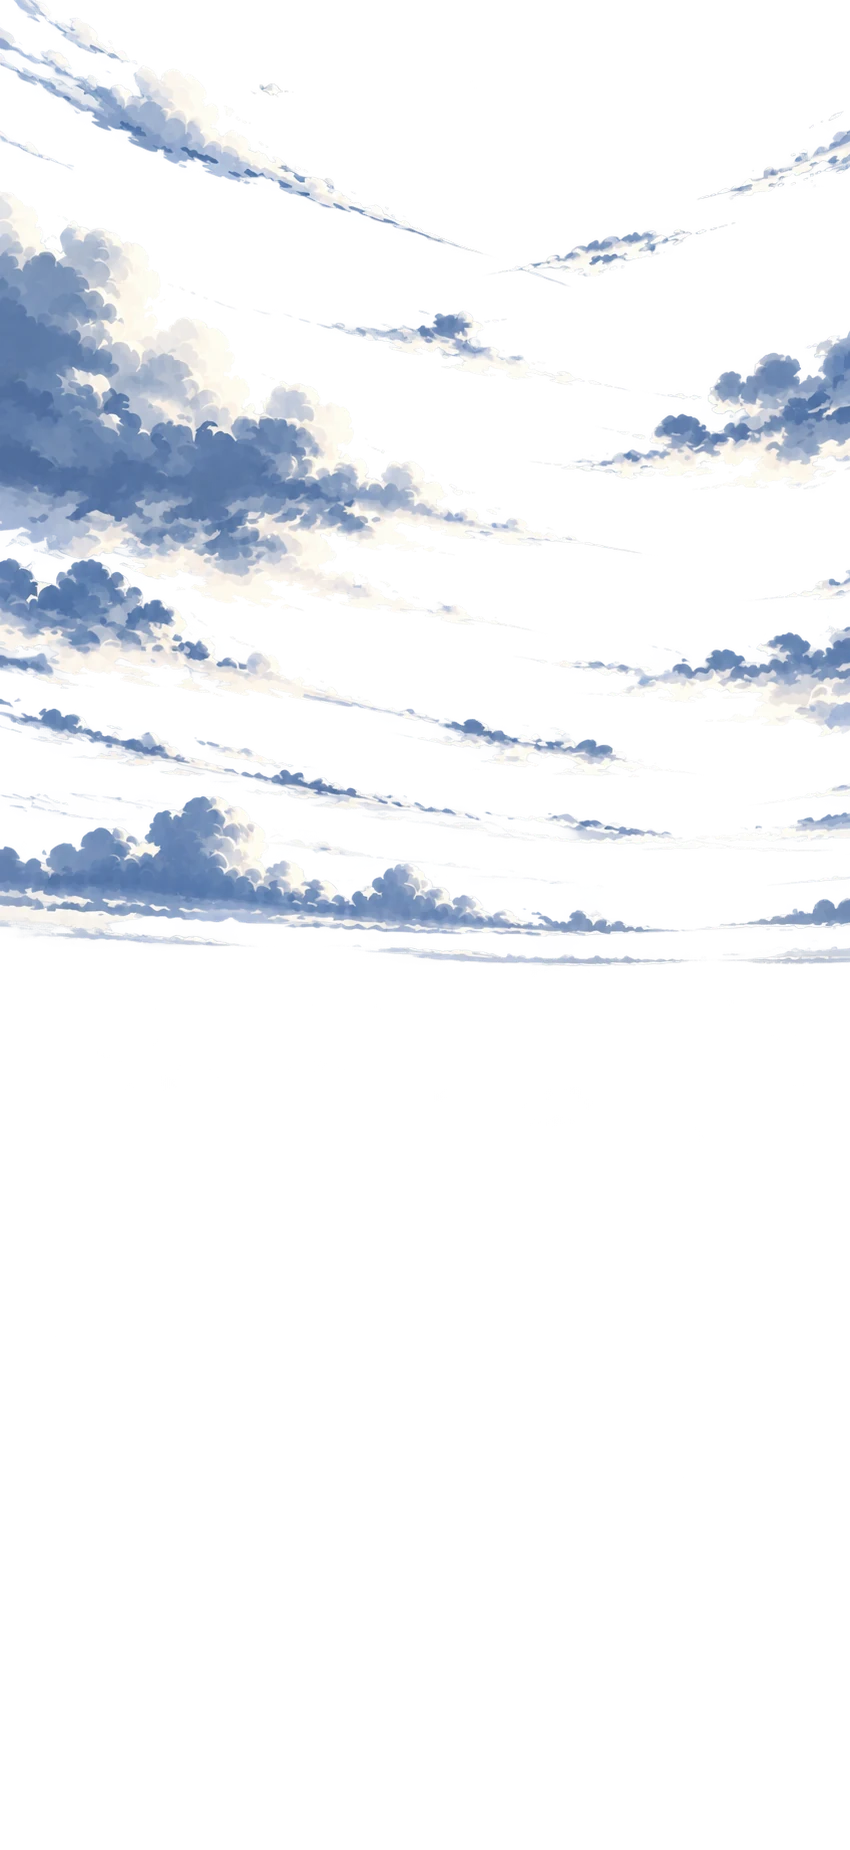
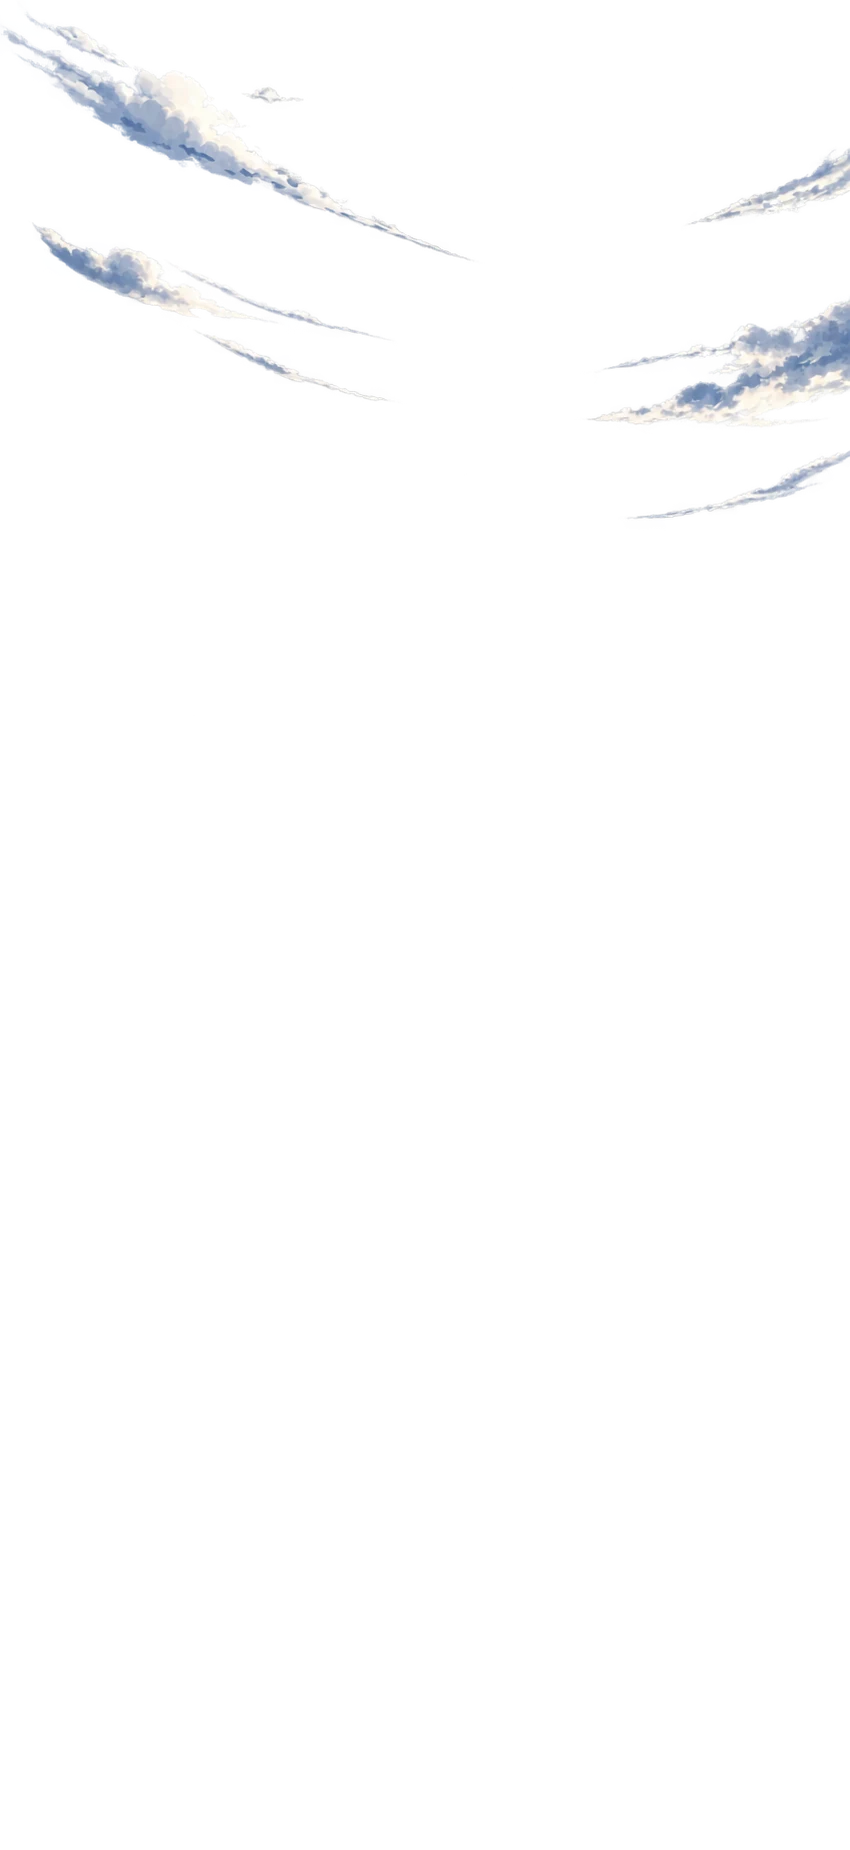
Refine rippling water, silver moonlight, clear glass and sparse drifting clouds

diff --git a/lib/landscape-renderer.ts b/lib/landscape-renderer.ts
@@ -3,6 +3,12 @@ import horizon from './landscape-horizon.json';
 const TAU=Math.PI*2,WIDTH=1000,HEIGHT=1000*1850/850;
 const blend=(a:number[],b:number[],t:number)=>a.map((v,i)=>v+(b[i]-v)*t);
 const css=(c:number[])=>`rgb(${c.map(Math.round).join(',')})`;
+export const cloudOffset=(seconds:number)=>((seconds*1.15)%WIDTH+WIDTH)%WIDTH;
+/** Two gentle crossing wave trains; dimensions increase towards the viewer. */
+export function waterWave(x:number,y:number,seconds:number){
+  const depth=smoothstep(.59,.94,y/HEIGHT);
+  return Math.sin(x*.025+y*.052-seconds*.75)*(1.1+depth*2.8)+Math.sin(x*.049-y*.019+seconds*.48)*(.6+depth*1.4);
+}
 export function mountainHorizon(x:number){
   const index=Math.max(0,Math.min(255,x*255)),i=Math.floor(index);
   return horizon[i]+((horizon[Math.min(255,i+1)]??horizon[i])-horizon[i])*(index-i);
@@ -23,6 +29,7 @@ export class LandscapeRenderer{
   private lastLight='';
   private width=1;private height=1;private scale=1;private offsetX=0;private offsetY=0;
   private assets:LandscapeAssets|null=null;
+  private ambientSeconds=0;
   private stars=Array.from({length:180},(_,i)=>{const r=(n:number)=>((Math.sin(n*127.1)*43758.5453)%1+1)%1;return{x:r(i+1),y:r(i+72)*.46,size:.4+r(i+17),brightness:r(i+45)};});
   constructor(private canvas:HTMLCanvasElement){
     this.ctx=canvas.getContext('2d',{alpha:false})!;
@@ -49,12 +56,24 @@ export class LandscapeRenderer{
         g.addColorStop(0,`rgba(255,159,81,${warm*(isCloud?.75:.25)})`);g.addColorStop(1,`rgba(170,78,93,${warm*.12})`);c.fillStyle=g;c.fillRect(0,0,WIDTH,HEIGHT);
       }
       c.globalCompositeOperation='source-over';
+      if(isCloud){
+        // The atlas is not painted as a seamless tile. Feather both ends before
+        // repeating it, so passing cloud groups never expose a vertical cut.
+        const edge=c.createLinearGradient(0,0,WIDTH,0);
+        edge.addColorStop(0,'transparent');edge.addColorStop(.09,'#000');edge.addColorStop(.91,'#000');edge.addColorStop(1,'transparent');
+        c.globalCompositeOperation='destination-in';c.fillStyle=edge;c.fillRect(0,0,WIDTH,HEIGHT);c.globalCompositeOperation='source-over';
+      }
     }
   }
   private cloudTransmission(x:number,y:number,shift:number){
     const alpha=this.assets?.cloudAlpha;if(!alpha)return 1;
-    const px=Math.floor((x-shift/WIDTH)*850),py=Math.floor(y*1850);
-    return px>=0&&px<850&&py>=0&&py<1850?1-alpha[py*850+px]/255:1;
+    const px=Math.floor((((x-shift/WIDTH)%1+1)%1)*850),py=Math.floor(y*1850);
+    if(py<0||py>=1850)return 1;
+    // Average a small patch so fine cloud edges do not abruptly switch a reflection.
+    let opacity=0;
+    for(const dx of [-4,0,4])for(const dy of [-4,0,4])opacity+=alpha[Math.max(0,Math.min(1849,py+dy))*850+(px+dx+850)%850];
+    const edge=smoothstep(0,.09,px/850)*(1-smoothstep(.91,1,px/850));
+    return 1-opacity/(9*255)*edge;
   }
   private moon(c:CanvasRenderingContext2D,state:AstronomyState,x:number,y:number,radius:number){
     const f=state.illumination.fraction,opacity=c.globalAlpha;
@@ -70,6 +89,8 @@ export class LandscapeRenderer{
     c.restore();
   }
   render(state:AstronomyState,seconds:number,motion:boolean){
+    if(motion)this.ambientSeconds=seconds;
+    seconds=this.ambientSeconds;
     const c=this.ctx,sky=skyState(state),sun=projectCelestial(state.sun),moon=projectCelestial(state.moon);
     const lightKey=[sky.day.toFixed(3),sky.twilight.toFixed(3),sky.moonlight.toFixed(2),sun.x.toFixed(2)].join(':');
     if(lightKey!==this.lastLight){this.relight(sky.day,sky.twilight,sky.moonlight,sun.x);this.lastLight=lightKey;}
@@ -94,8 +115,10 @@ export class LandscapeRenderer{
       c.save();c.globalAlpha=.25+.75*(1-sky.day);this.moon(c,state,mx,my,22);c.restore();
     }
     c.setTransform(1,0,0,1,0,0);
-    const cloudShift=motion?Math.sin(seconds*.006)*10:0;
-    c.drawImage(this.clouds,cloudShift*this.scale,0);c.drawImage(this.terrain,0,0);
+    const cloudShift=cloudOffset(seconds);
+    // Seamless, steady drift rather than oscillating the whole sky in place.
+    c.drawImage(this.clouds,cloudShift*this.scale,0);
+    c.drawImage(this.clouds,(cloudShift-WIDTH)*this.scale,0);c.drawImage(this.terrain,0,0);
     if(!this.assets)return;
     // Only the lower part of this persistent buffer is drawn. Alpha mask includes
     // the exact riverbanks and intervening trees; light can never land on the forest.
@@ -104,26 +127,51 @@ export class LandscapeRenderer{
     water.addColorStop(0,css(blend(blend([13,35,69],[113,179,199],sky.day),[201,133,143],sky.twilight*.55)));
     water.addColorStop(1,css(blend(blend([9,28,58],[48,123,155],sky.day),[177,124,135],sky.twilight*.4)));
     w.fillStyle=water;w.fillRect(0,HEIGHT*.57,WIDTH,HEIGHT);
-    w.save();w.translate(motion?Math.sin(seconds*.3)*1.5:0,HEIGHT*1.30);w.scale(1,-1);w.globalAlpha=.24;w.drawImage(this.terrain,0,0,this.width,this.height,0,0,WIDTH,HEIGHT);w.restore();
-    for(let i=0;i<44;i++){
-      const y=HEIGHT*(.6+i*.009),p=i/44;
-      const shift=motion?Math.sin(seconds*.45+i*1.7)*(2+p*7):0;
-      w.strokeStyle=sky.day>.5?'#c8edf1':'#7799be';w.globalAlpha=.04+p*.045;w.lineWidth=.6+p*1.5;w.beginPath();w.moveTo(-100+shift,y);w.lineTo(1100+shift,y+.5);w.stroke();
+    // Ripple the reflected terrain in narrow strips, reusing the existing texture.
+    w.globalAlpha=.28;
+    for(let i=0;i<54;i++){
+      const y=HEIGHT*(.59+i*.0078),band=HEIGHT*.0078;
+      const sourceY=HEIGHT*1.30-y-band;
+      if(sourceY<0)continue;
+      w.save();w.translate(waterWave(480,y,seconds),y+band);w.scale(1,-1);
+      const sy=(sourceY*this.scale+this.offsetY)/this.height*this.terrain.height;
+      w.drawImage(this.terrain,0,Math.max(0,sy),this.width,Math.max(1,band*this.scale),0,0,WIDTH,band);w.restore();
     }
-    const reflect=(p:{x:number;y:number},radius:number,altitude:number,brightness:number,fill:string)=>{
+    // Broken, gently curved crests visibly move within the water mask.
+    for(let i=0;i<64;i++){
+      const y=HEIGHT*(.6+i*.006),p=i/64;
+      w.strokeStyle=sky.day>.5?'#daf3f1':'#9ebcda';w.globalAlpha=.055+p*.065;w.lineWidth=.65+p*1.1;
+      for(let j=0;j<5;j++){
+        const x=((j*237+i*71)%1130)-65,span=17+p*38;
+        w.beginPath();w.moveTo(x,y+waterWave(x,y,seconds));
+        w.quadraticCurveTo(x+span*.5,y+waterWave(x+span*.5,y,seconds),x+span,y+waterWave(x+span,y,seconds));w.stroke();
+      }
+    }
+    const reflect=(p:{x:number;y:number},radius:number,altitude:number,brightness:number,fill:string,lunar=false)=>{
       const visibility=discVisibility(p.x,p.y,radius/HEIGHT,altitude)*this.cloudTransmission(p.x,p.y,cloudShift);
       if(visibility===0||brightness<.001)return;
       w.strokeStyle=fill;w.lineCap='round';
-      for(let i=0;i<50;i++){
-        const y=HEIGHT*(.6+i*.008),perspective=(y/HEIGHT-.59)/.41;
-        const shift=motion?Math.sin(seconds*.6+i*1.9)*(.8+perspective*5):0;
+      for(let i=0;i<64;i++){
+        const y=HEIGHT*(.6+i*.006),perspective=(y/HEIGHT-.59)/.41;
+        const shift=waterWave(500,y,seconds)*2;
         const x=500+(p.x-.5)*(150+perspective*1250)+shift;
-        const half=5+perspective*(18+50*(1-smoothstep(0,.65,altitude)));
-        w.globalAlpha=brightness*visibility*(.16+.28*(1-perspective))*(.7+.3*Math.sin(i*2.4+(motion?seconds*.5:0)));
-        w.lineWidth=1+perspective*3;w.beginPath();w.moveTo(x-half,y);w.lineTo(x+half,y);w.stroke();
+        const half=(lunar?60:16)+perspective*((lunar?210:65)+50*(1-smoothstep(0,.65,altitude)));
+        // A broad, soft rough-water lobe and brighter broken silver glints.
+        const lobe=w.createLinearGradient(x-half*2,0,x+half*2,0);
+        lobe.addColorStop(0,'transparent');lobe.addColorStop(.5,fill);lobe.addColorStop(1,'transparent');
+        w.strokeStyle=lobe;w.globalAlpha=brightness*visibility*(lunar?.16:.09)*(1-perspective*.45);
+        w.lineWidth=5+perspective*10;w.beginPath();w.moveTo(x-half*2,y);w.lineTo(x+half*2,y);w.stroke();
+        w.strokeStyle=fill;
+        const shimmer=.55+.45*Math.sin(i*2.4+seconds*.65);
+        w.globalAlpha=brightness*visibility*(lunar?.58:.33)*(.45+.55*(1-perspective))*shimmer;
+        w.lineWidth=1+perspective*2.4;
+        for(let j=0;j<3;j++){
+          const dx=(j-1)*half*.7+Math.sin(i*1.7+j)*half*.3,length=half*(.12+.13*(1+Math.sin(i+j)));
+          w.beginPath();w.moveTo(x+dx-length,y);w.lineTo(x+dx+length,y+.5);w.stroke();
+        }
       }
     };
-    reflect(sun,25,state.sun.altitude,sky.day,'#ffe4ab');reflect(moon,22,state.moon.altitude,state.illumination.fraction*(1-sky.day),'#d3e7ff');
+    reflect(sun,25,state.sun.altitude,sky.day,'#ffe4ab');reflect(moon,22,state.moon.altitude,state.illumination.fraction*(1-sky.day),'#e4f2ff',true);
     w.globalAlpha=1;w.globalCompositeOperation='destination-in';w.drawImage(this.assets.water,0,0,WIDTH,HEIGHT);w.globalCompositeOperation='source-over';
     c.setTransform(1,0,0,1,0,0);c.drawImage(this.water,0,0);
     // Feathered valley mist, driven by the same light; no per-frame blur filters.

diff --git a/app/globals.css b/app/globals.css
@@ -1130,11 +1130,17 @@ html[data-personal-light-effects='on'] .animate-spin{animation:spin 1s linear in
 html[data-personal-light-effects='on'] .admin-device-card{overflow:clip;clip-path:inset(0 round 2rem)}
 html[data-personal-light-effects='on'][data-personal-card-radius='true'] .admin-device-card{clip-path:inset(0 round var(--personal-card-radius))}
 /* Living mountains: one fixed scene, readable stable dark glass at every solar elevation. */
-.pks-theme-root[data-ui-theme='dark-mountains'] { isolation:isolate; background:#091828!important; --ui-canvas:transparent; --ui-surface:var(--landscape-surface,rgba(9,24,40,.82)); --ui-glass:var(--ui-surface); --ui-glass-row:rgba(9,24,40,.78); --ui-raised:#142d40; --ui-text:#f4f8fc; --ui-muted:#cedee8; --ui-edge:#d0e9ed30; }
+.pks-theme-root[data-ui-theme='dark-mountains'] { isolation:isolate; background:#091828!important; --ui-canvas:transparent; --ui-surface:var(--landscape-surface,rgba(9,24,40,.62)); --ui-glass:var(--ui-surface); --ui-glass-row:rgba(9,24,40,.58); --ui-raised:#142d40; --ui-text:#f4f8fc; --ui-muted:#e3eef5; --ui-edge:#d0e9ed30; }
 [data-landscape-stage] { position:absolute; inset:0; width:100%; height:100%; z-index:-1; pointer-events:none; contain:strict; }
 .pks-theme-root[data-ui-theme='dark-mountains'] [data-map-canvas][inert] { visibility:hidden; }
 .pks-theme-root[data-ui-theme='dark-mountains'] :is(.transit-view,.connections-view,.journey-view,[data-statistics-view],[data-cosmic-canvas],[data-full-stop-list]) { background:transparent!important; --transit-canvas:transparent; --transit-surface:var(--ui-surface); --transit-card:var(--ui-glass-row); --transit-border:var(--ui-edge); }
 .pks-theme-root[data-ui-theme='dark-mountains'] :is(.pks-panel-scope[data-panel-theme],.pks-glass-frame[data-panel-theme]) { --panel-glass:var(--ui-surface); --panel-surface:var(--ui-glass-row); --panel-solid:#142d40; --panel-edge:var(--ui-edge); }
-html[data-landscape-theme='on'] :is(.pks-map-search-panel,.map-detail-shell,.pks-options-sheet,[data-carrier-sheet],.transit-surface,.transit-card,.admin-topbar,.pks-personal-card,.pks-option-card,.pks-navigation,[data-cosmic-panel]) { background-color:var(--landscape-surface,rgba(9,24,40,.82))!important; background-image:none!important; border-color:#d0e9ed30; }
-html[data-landscape-theme='on'] :is(.transit-view,.map-detail-shell,.pks-panel-scope,[data-carrier-sheet]) :is(.text-slate-400,.text-slate-500,.text-slate-600,.map-detail-muted) { color:#cedee8; }
-html[data-landscape-theme='on'] :is(input,textarea)::placeholder { color:#cedee8; }
+html[data-landscape-theme='on'] :is(.pks-map-search-panel,.map-detail-shell,.pks-options-sheet,[data-carrier-sheet],.transit-surface,.transit-card,.admin-topbar,.pks-personal-card,.pks-option-card,.pks-navigation,[data-cosmic-panel]) { background-color:var(--landscape-surface,rgba(9,24,40,.62))!important; background-image:none!important; border-color:#d0e9ed30; }
+html[data-landscape-theme='on'] :is(.transit-view,.map-detail-shell,.pks-panel-scope,[data-carrier-sheet]) :is(.text-slate-400,.text-slate-500,.text-slate-600,.map-detail-muted) { color:#e3eef5; }
+html[data-landscape-theme='on'] :is(input,textarea)::placeholder { color:#e3eef5; }
+
+/* A small blur on outer glass preserves details and stable text contrast. */
+html[data-landscape-theme='on'] { --personal-glass:var(--landscape-surface,rgba(9,24,40,.62))!important; --personal-surface:var(--landscape-surface,rgba(9,24,40,.62))!important; }
+html[data-landscape-theme='on'] :is(.pks-options-sheet,.map-detail-shell,.pks-navigation,.pks-map-search-panel) { -webkit-backdrop-filter:blur(5px) saturate(112%)!important; backdrop-filter:blur(5px) saturate(112%)!important; }
+html[data-landscape-theme='on'] .transit-view { -webkit-backdrop-filter:none!important; backdrop-filter:none!important; }
+html[data-landscape-theme='on'][data-personal-light-effects='on'] :is(.pks-options-sheet,.map-detail-shell,.pks-navigation,.pks-map-search-panel) { -webkit-backdrop-filter:none!important; backdrop-filter:none!important; }

diff --git a/lib/interface-presets.ts b/lib/interface-presets.ts
@@ -10,7 +10,7 @@ const appearance=(changes:Partial<InterfaceAppearance>):InterfaceAppearance=>({.
 export const INTERFACE_PRESETS:readonly InterfacePreset[]=[
   {
     name:'Żywy Krajobraz – Dynamiczne Góry',description:'Animowana dolina z naturalnym cyklem dnia i nocy, ruchem Słońca i Księżyca oraz odbiciami na wodzie. Bez udostępnionej lokalizacji: Rzeszów.',theme:'dark-mountains',accent:'#a6e2cb',glass:true,glow:false,glowStrength:25,
-    appearance:appearance({glassOpacity:80,glassBlur:8,borderStrength:16,shadowStrength:15,navIndicator:'line'}),
+    appearance:appearance({glassOpacity:62,glassBlur:5,borderStrength:16,shadowStrength:15,navIndicator:'line'}),
     preview:{background:'#40799a',surface:'#142d40',text:'#f4f8fc'},
   },
   {

diff --git a/components/DynamicLandscape.tsx b/components/DynamicLandscape.tsx
@@ -70,7 +70,7 @@ export default function DynamicLandscape({active}:{active:boolean}){
     worker.onmessage=event=>{
       if(!alive||event.data.id!==requestId)return;
       samples=event.data;events=event.data.events;
-      root.style.setProperty('--landscape-surface',`rgba(9,24,40,${(.82-.08*Math.max(0,Math.sin(samples!.a.sun.altitude))).toFixed(3)})`);
+      root.style.setProperty('--landscape-surface',`rgba(9,24,40,${(.59+.07*Math.max(0,Math.sin(samples!.a.sun.altitude))).toFixed(3)})`);
       draw();
     };
     worker.onerror=()=>{element.dataset.renderError='astronomy-worker';};

diff --git a/docs/dynamic-mountain-theme.md b/docs/dynamic-mountain-theme.md
@@ -72,3 +72,14 @@ Built-in image generation edited the user-provided daytime reference `6870(1).pn
 Terrain prompt: “Edit this reference into a production compositing asset for the exact same animated Android mountain valley. Preserve its portrait 850:1850 composition and every mountain, forest, tree and river-bank shape. Output a PNG terrain CUTOUT with actual transparent alpha. REMOVE THE ENTIRE SKY, SUN, ALL CLOUDS AND ALL STARS above the mountain skyline and make that whole upper sky area fully TRANSPARENT. ALSO REMOVE THE ENTIRE VISIBLE RIVER/LAKE SURFACE and make the winding water surface fully TRANSPARENT, including reflections, while preserving every riverbank and tree silhouette along the river. Keep only mountains, forests, leafy foreground plants and rocks. The terrain must retain the rich detailed hand-painted anime landscape quality of the original reference, but use neutral diffuse overcast daylight, subdued natural forest greens and blue-gray mountain rock, no directional golden sunlight, no painted mist or luminous haze, no sun disc, no moon, no bright reflection or glows. This is ONE invariant landscape layer to recolor dynamically in code for all times, not a wallpaper. Maintain skyline around 51% image height and river starting around 69% then winding to bottom at 82% height, like the reference. No text, no UI, no buildings. Actual transparent holes for sky AND water are essential. Preserve original portrait proportions, do not crop.”
 
 Cloud prompt: “Extract ONLY the illustrated CLOUDS from this reference into one transparent PNG layer, preserving exactly the tall portrait aspect ratio 850:1850, their existing positions, scale and painterly anime shapes across the upper 53% of the canvas. Remove the blue sky to actual transparent alpha between all cloud shapes. Remove the sun, moon, stars, mountains, forests, water and foreground; the entire lower half must be fully transparent. The only visible pixels in this asset are the lovely detailed cloud formations from the reference, in neutral diffuse white, cream and blue-gray with no orange, no sunlight, no glowing edges. Preserve their fine detailed fluffy cumulus shapes and wispy strands. This is a production cloud compositing overlay to be gently tinted and moved in an animated Android scene. Keep clouds spacious enough that the sky and moving sun can be seen behind them. No text, no UI. Actual transparent background required.”
+
+
+## Water, glass and light cloud cover refinement
+
+The river now uses two crossing wave trains for short curved moving crests, and 54 narrow strips of the existing reflected terrain texture receive a small horizontal ripple displacement. Silver moonlight has a wider soft rough-water lobe plus separated brighter glints, still multiplied by phase, horizon visibility and averaged cloud transmission. All water is composited through the unchanged exact river mask.
+
+The replacement sparse cloud overlay removes the large left bank and dense horizon clouds. It drifts steadily at 1.15 design pixels per second, with repeated atlas edges feathered to prevent visible seams. Cloud attenuation uses the same repeating coordinates and feather mask. Reduced motion freezes the last animation phase.
+
+Glass opacity is approximately 59–66% instead of 74–82%, with slightly brighter muted text. The ready-made preset now uses 62% glass opacity and a 5px blur; the timetable canvas itself does not blur the scenery. This also applies to an already saved mountain theme through the theme-specific material, without requiring reselecting the preset.
+
+Cloud refinement prompt (built-in image generation): “Edit this transparent cloud overlay for the SAME animated mountain app. Keep exactly the original portrait 850 x 1850 aspect and an entirely transparent lower 47% canvas. The user wants SMALL CLOUD COVER: remove roughly 75 percent of all cloud area. Leave only 3 to 5 SMALL separated delicate wispy cloud groups, mostly near the upper left and upper right sky edges, and a few very thin streaks. Leave the central sky and the horizon almost completely CLEAR and transparent. No large wall of cumulus on the left, no dense horizon bank. Retain the fine hand-painted anime illustration quality, with soft white/cream highlights and subtle blue-gray shaded contours under neutral diffuse light. No orange lighting. The ONLY opaque content must be these few small clouds; actual alpha transparency everywhere else. No sun, moon, stars, sky color, mountains, terrain, water, text or UI. This is a production moving cloud layer, not a wallpaper. Preserve the precise portrait aspect ratio and sparse balanced composition. No checkerboard pattern painted into the asset.”
